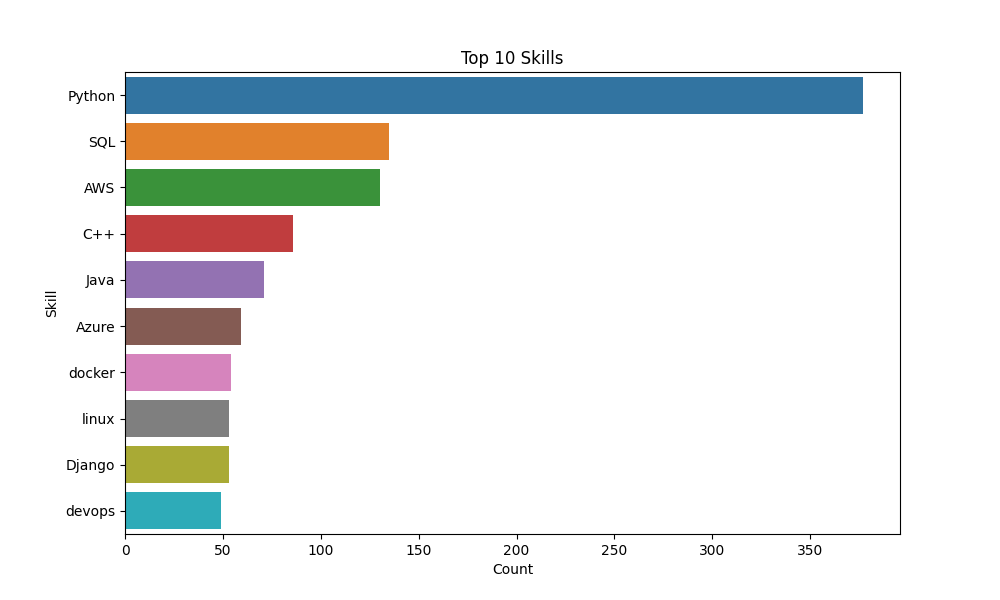
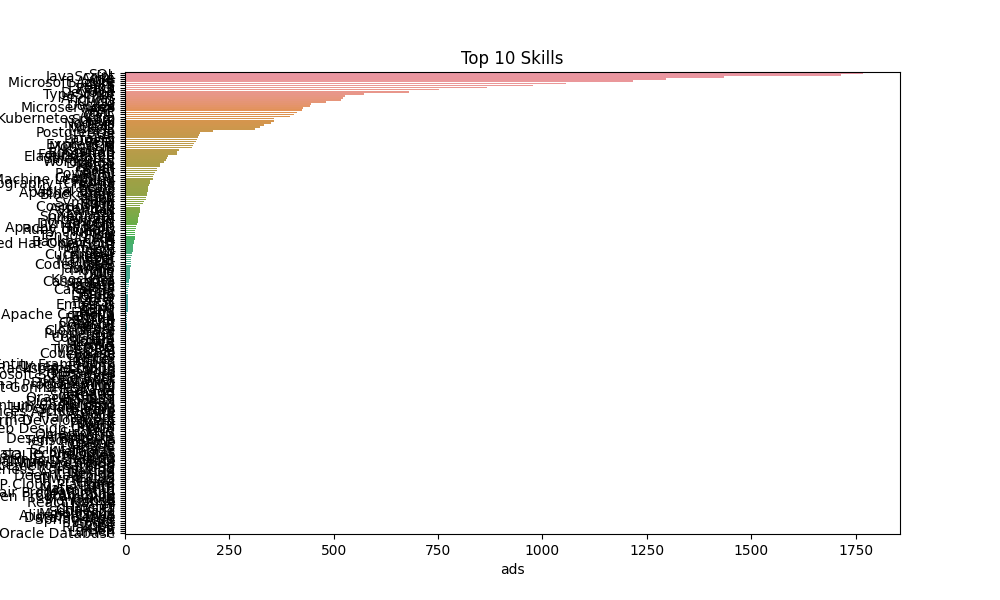
refactoring

diff --git a/main.py b/main.py
@@ -43,9 +43,12 @@ async def startup_event():
 def get_top_skills():
     db = connect_to_db()
     cursor = db.cursor(dictionary=True)  # Use dictionary cursor
-    cursor.execute("SELECT `skill`, COUNT(`skill`) as `count` FROM `jobskills` GROUP BY `skill` ORDER BY `count` DESC LIMIT 10")
+    cursor.execute("""SELECT catgroup,catname,count(1) ads FROM categories 
+                        left outer join jobskills on catId=jobskills.skillcatId 
+                        left outer join jobs on jobskills.jobid=jobs.jobid 
+                        group by catgroup,catname order by count(1) desc""")
     result = cursor.fetchall()
-    df = pd.DataFrame(result, columns=['Skill', 'Count'])
+    df = pd.DataFrame(result, columns=['catgroup', 'catname','ads'])
     return df.to_dict(orient='records')
 
 @app.get("/average-salary")
@@ -61,12 +64,15 @@ def get_average_salary():
 def get_top_skills_plot():
     db = connect_to_db()
     cursor = db.cursor(dictionary=True)  # Use dictionary cursor
-    cursor.execute("SELECT `skill`, COUNT(`skill`) as `count` FROM `jobskills` GROUP BY `skill` ORDER BY `count` DESC LIMIT 10")
+    cursor.execute("""SELECT catgroup,catname,count(1) ads FROM categories 
+                        left outer join jobskills on catId=jobskills.skillcatId 
+                        left outer join jobs on jobskills.jobid=jobs.jobid 
+                        group by catgroup,catname order by count(1) desc""")
     result = cursor.fetchall()
-    df = pd.DataFrame(result, columns=['Skill', 'Count'])
+    df = pd.DataFrame(result, columns=['catgroup', 'catname','ads'])
 
     plt.figure(figsize=(10,6))
-    sns.barplot(x='Count', y='Skill', data=df)
+    sns.barplot(x='ads', y='catname', data=df)
     plt.title('Top 10 Skills')
     plt.savefig('static/top_skills.png')
     return {"filepath": "static/top_skills.png"}

diff --git a/server_side_scripts/bulkfix.py b/server_side_scripts/bulkfix.py
@@ -1,4 +1,5 @@
 # this module is for fixes that one time run, update data, tests, etc.
+# modify, update, tests, etc.
 import requests
 from bs4 import BeautifulSoup
 import re
@@ -239,7 +240,7 @@ while True:
 
 def update_skills(jobid,jobtitle,description,deleteolds=False):
     skills=findkeywords(str(jobtitle)+" "+str(description))    
-    print(skills)
+    #print(skills)
     if deleteolds:  # delete old skills before recalculate
         cursor.execute("delete from jobskills where jobid=%(jobid)s", {'jobid': jobid})
         conn.commit()
@@ -262,8 +263,9 @@ def dbloop():
     cursor = db.cursor(dictionary=True)  # Use dictionary cursor
     #cursor.execute("SELECT jobid,title,description FROM jobs where title like '%c++%'")
     #cursor.execute("SELECT jobid,title,description FROM jobs where jobid=50930180")
-    #cursor.execute("SELECT jobid,title,description FROM jobs") # full update
-    cursor.execute("SELECT jobs.jobid,title,description FROM jobs where title like '%drupal%' or title like '%wordpress%' or description like '%drupal%' or description like '%wordpress%'")
+    #cursor.execute("SELECT jobs.jobid,title,description FROM jobs where title like '%drupal%' or title like '%wordpress%' or description like '%drupal%' or description like '%wordpress%'")
+    #cursor.execute("SELECT jobs.jobid,title,description FROM jobs where title like '%sql%' or title like '%sql%'")
+    cursor.execute("SELECT jobid,title,description FROM jobs") # full update periodic run will be nice
     result = cursor.fetchall()        
     for row in result:
         xcatarray=catsArray.copy()
